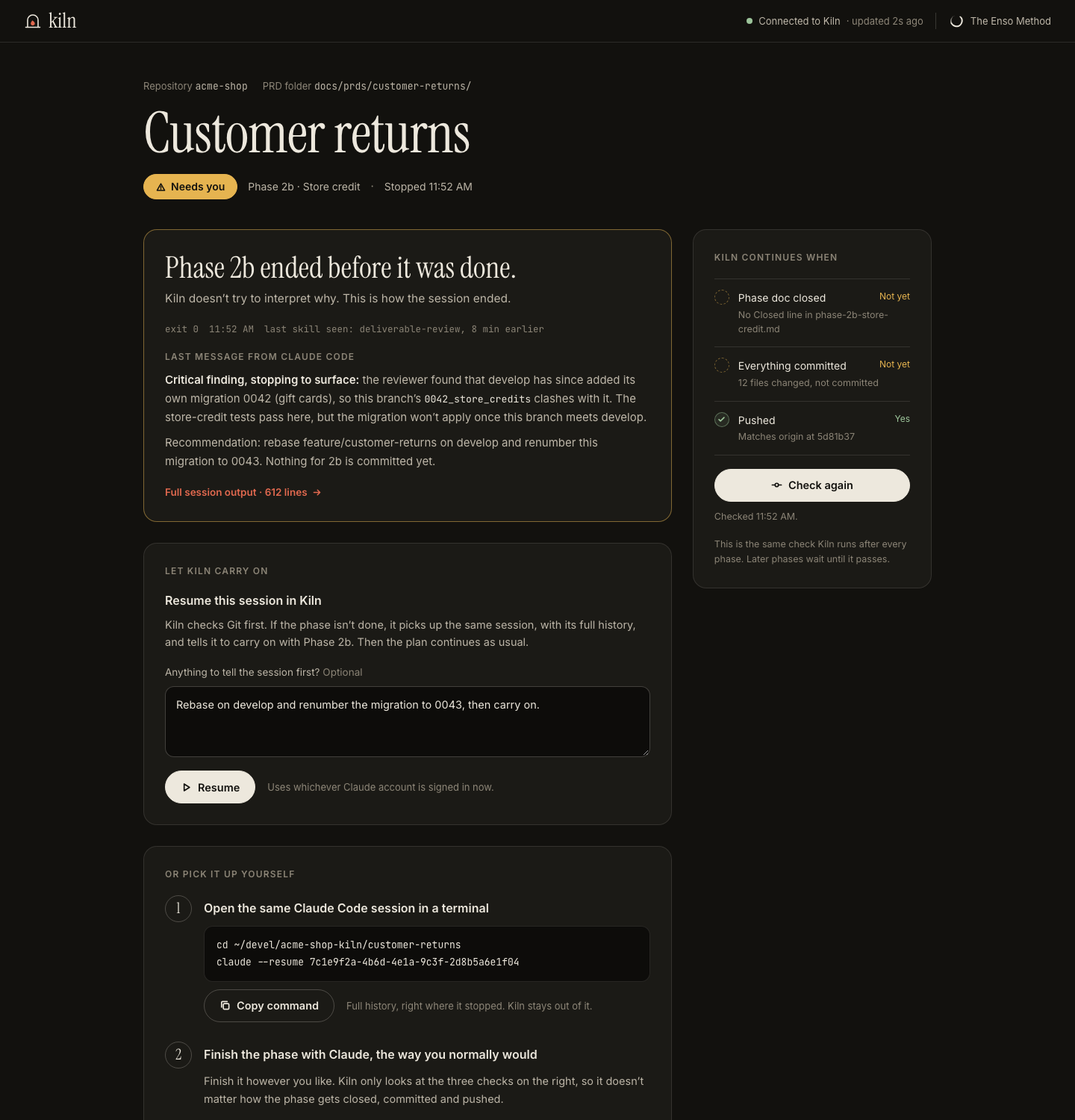
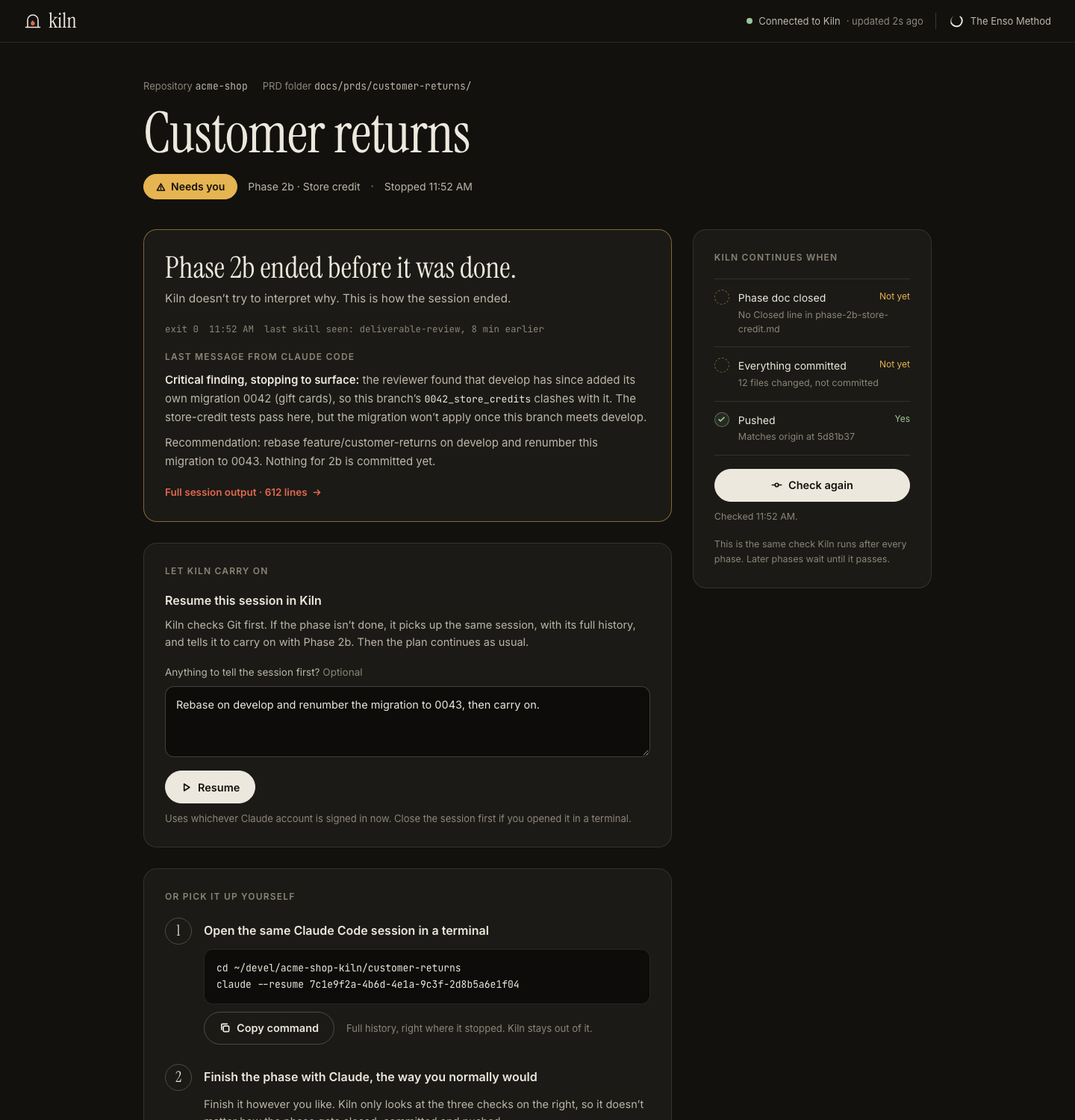
docs(kiln usage-limit recovery): PRD refinement complete — one review round
Review fixes: a usage-limit stop is judged from the latest run only;
Resume is left off where no run ever started; Replaces lines added for
v1's AC-LOOK-01, AC-WATCH-08 and assumption UI-005; a table for limits
with no label or no reset time; a Depends On section for the two
Claude Code behaviors not yet seen (the refusal event, resuming under
another account); close-the-terminal-session hint beside Resume.

Changed region(s): [[0.1562, 0.7667, 0.5938, 1.0], [0.3125, 0.7053, 0.3438, 0.736]]

diff --git a/docs/changes/kiln-usage-limit-recovery/mockups/kiln-screen-needs-you-usage-limit.html b/docs/changes/kiln-usage-limit-recovery/mockups/kiln-screen-needs-you-usage-limit.html
@@ -42,7 +42,7 @@ details[open]>summary .chev{transform:rotate(90deg)}
 </div>
 <a href="../../../design/mockups/kiln-screen-phase-detail-live.html" style="display: inline-flex; align-items: center; gap: 6px; font-size: 13.5px; font-weight: 600; color: #e2694f; text-decoration: none; align-self: flex-start">Full session output · 248 lines<svg width="13" height="13" viewBox="0 0 16 16" fill="none" stroke="currentColor" stroke-width="1.9" stroke-linecap="round" stroke-linejoin="round" aria-hidden="true" style="flex: 0 0 auto"><path d="M3 8h10M9 4l4 4-4 4"></path></svg></a></section><section style="background: #1b1a16; border: 1px solid rgba(237, 232, 221, 0.12); border-radius: 18px; padding: clamp(20px, 3vw, 28px); display: flex; flex-direction: column; gap: 18px; box-sizing: border-box; "><span style="font-size: 12px; font-weight: 600; letter-spacing: 0.1em; text-transform: uppercase; color: #8c8577">Two ways to carry on</span><ol style="list-style: none; margin: 0; padding: 0; display: flex; flex-direction: column; gap: 26px"><li style="display: grid; grid-template-columns: 36px minmax(0, 1fr); gap: 0 16px"><span style="width: 36px; height: 36px; border-radius: 999px; border: 1px solid rgba(237, 232, 221, 0.24); display: inline-flex; align-items: center; justify-content: center; font-family: 'Instrument Serif', 'Iowan Old Style', Georgia, serif; font-size: 20px; color: #ede8dd; box-sizing: border-box">1</span><div style="display: flex; flex-direction: column; gap: 12px; padding-top: 5px; min-width: 0"><span style="font-size: 16px; font-weight: 600; color: #ede8dd">Wait for the reset</span><p style="margin: 0; font-size: 14.5px; color: #bdb6a8; line-height: 1.6; text-wrap: pretty; ">The 5-hour window resets at 3:40 PM, in 1h 12m. Come back after that and press Resume.</p></div></li><li style="display: grid; grid-template-columns: 36px minmax(0, 1fr); gap: 0 16px"><span style="width: 36px; height: 36px; border-radius: 999px; border: 1px solid rgba(237, 232, 221, 0.24); display: inline-flex; align-items: center; justify-content: center; font-family: 'Instrument Serif', 'Iowan Old Style', Georgia, serif; font-size: 20px; color: #ede8dd; box-sizing: border-box">2</span><div style="display: flex; flex-direction: column; gap: 12px; padding-top: 5px; min-width: 0"><span style="font-size: 16px; font-weight: 600; color: #ede8dd">Or switch to another Claude account now</span><p style="margin: 0; font-size: 14.5px; color: #bdb6a8; line-height: 1.6; text-wrap: pretty; ">In another terminal, sign in with an account that has usage left, then press Resume. The session picks up on that account.</p><div style="display: flex; flex-direction: column; gap: 10px"><pre style="margin: 0; white-space: pre-wrap; font-family: 'JetBrains Mono', 'SF Mono', ui-monospace, Menlo, monospace; font-size: 13px; line-height: 1.7; color: #ede8dd; background: #0d0c0a; border: 1px solid rgba(237, 232, 221, 0.12); border-radius: 12px; padding: 14px 16px; overflow-wrap: anywhere">claude auth login
 <span style="color: #8c8577"># or, to fill in the other account’s email:</span>
-claude auth login --email you@other-account.dev</pre><div><button type="button" style="display: inline-flex; align-items: center; justify-content: center; gap: 8px; min-height: 44px; padding: 0 20px; border-radius: 999px; font-family: Inter, -apple-system, BlinkMacSystemFont, 'Segoe UI', sans-serif; font-size: 14.5px; font-weight: 600; text-decoration: none; cursor: pointer; box-sizing: border-box; white-space: nowrap; background: transparent; color: #ede8dd; border: 1px solid rgba(237, 232, 221, 0.24); "><svg width="15" height="15" viewBox="0 0 16 16" fill="none" stroke="currentColor" stroke-width="1.8" stroke-linecap="round" stroke-linejoin="round" aria-hidden="true" style="flex: 0 0 auto"><rect x="5.5" y="5.5" width="8" height="8" rx="1.5"></rect><path d="M3 10.5V3.8A1.3 1.3 0 0 1 4.3 2.5H11"></path></svg>Copy command</button></div></div></div></li></ol><div style="display: flex; flex-direction: column; gap: 4px; padding: 14px 16px; border: 1px solid rgba(237, 232, 221, 0.12); border-radius: 12px"><span style="font-size: 12px; font-weight: 600; letter-spacing: 0.1em; text-transform: uppercase; color: #8c8577">Signed in now</span><span style="display: flex; flex-wrap: wrap; justify-content: space-between; gap: 4px 12px; font-size: 14.5px; color: #ede8dd">alex@acme-shop.dev · Max plan<span style="color: #e6b450; font-weight: 600">5-hour window 100%</span></span><span style="font-size: 12.5px; color: #8c8577">Usage updated 1 min ago. Switch accounts and this changes within 5 minutes.</span></div><label style="display: flex; flex-direction: column; gap: 8px"><span style="font-size: 13.5px; color: #bdb6a8">Anything to tell the session first? <span style="color: #8c8577">Optional</span></span><textarea rows="3" placeholder="It gets this in your words, then the instruction to carry on with the phase." style="width: 100%; box-sizing: border-box; resize: vertical; font-family: Inter, -apple-system, BlinkMacSystemFont, 'Segoe UI', sans-serif; font-size: 14.5px; line-height: 1.6; color: #ede8dd; background: #0d0c0a; border: 1px solid rgba(237, 232, 221, 0.24); border-radius: 12px; padding: 12px 14px"></textarea></label><div style="display: flex; flex-wrap: wrap; align-items: center; gap: 10px 16px"><button type="button" style="display: inline-flex; align-items: center; justify-content: center; gap: 8px; min-height: 44px; padding: 0 20px; border-radius: 999px; font-family: Inter, -apple-system, BlinkMacSystemFont, 'Segoe UI', sans-serif; font-size: 14.5px; font-weight: 600; text-decoration: none; cursor: pointer; box-sizing: border-box; white-space: nowrap; background: #ede8dd; color: #12110e; border: 1px solid #ede8dd; "><svg width="15" height="15" viewBox="0 0 16 16" fill="none" stroke="currentColor" stroke-width="1.8" stroke-linecap="round" stroke-linejoin="round" aria-hidden="true" style="flex: 0 0 auto"><path d="M5 3.2v9.6L12.6 8z"></path></svg>Resume</button><span style="font-size: 13px; color: #e6b450">This account is still at its 5-hour limit until 3:40 PM.</span></div></section><section style="background: #1b1a16; border: 1px solid rgba(237, 232, 221, 0.12); border-radius: 18px; padding: clamp(20px, 3vw, 28px); display: flex; flex-direction: column; gap: 18px; box-sizing: border-box; "><span style="font-size: 12px; font-weight: 600; letter-spacing: 0.1em; text-transform: uppercase; color: #8c8577">Or pick it up yourself</span>
+claude auth login --email you@other-account.dev</pre><div><button type="button" style="display: inline-flex; align-items: center; justify-content: center; gap: 8px; min-height: 44px; padding: 0 20px; border-radius: 999px; font-family: Inter, -apple-system, BlinkMacSystemFont, 'Segoe UI', sans-serif; font-size: 14.5px; font-weight: 600; text-decoration: none; cursor: pointer; box-sizing: border-box; white-space: nowrap; background: transparent; color: #ede8dd; border: 1px solid rgba(237, 232, 221, 0.24); "><svg width="15" height="15" viewBox="0 0 16 16" fill="none" stroke="currentColor" stroke-width="1.8" stroke-linecap="round" stroke-linejoin="round" aria-hidden="true" style="flex: 0 0 auto"><rect x="5.5" y="5.5" width="8" height="8" rx="1.5"></rect><path d="M3 10.5V3.8A1.3 1.3 0 0 1 4.3 2.5H11"></path></svg>Copy command</button></div></div></div></li></ol><div style="display: flex; flex-direction: column; gap: 4px; padding: 14px 16px; border: 1px solid rgba(237, 232, 221, 0.12); border-radius: 12px"><span style="font-size: 12px; font-weight: 600; letter-spacing: 0.1em; text-transform: uppercase; color: #8c8577">Signed in now</span><span style="display: flex; flex-wrap: wrap; justify-content: space-between; gap: 4px 12px; font-size: 14.5px; color: #ede8dd">alex@acme-shop.dev · Max plan<span style="color: #e6b450; font-weight: 600">5-hour window 100%</span></span><span style="font-size: 12.5px; color: #8c8577">Usage updated 1 min ago. Switch accounts and this changes within 5 minutes. Close the session first if you opened it in a terminal.</span></div><label style="display: flex; flex-direction: column; gap: 8px"><span style="font-size: 13.5px; color: #bdb6a8">Anything to tell the session first? <span style="color: #8c8577">Optional</span></span><textarea rows="3" placeholder="It gets this in your words, then the instruction to carry on with the phase." style="width: 100%; box-sizing: border-box; resize: vertical; font-family: Inter, -apple-system, BlinkMacSystemFont, 'Segoe UI', sans-serif; font-size: 14.5px; line-height: 1.6; color: #ede8dd; background: #0d0c0a; border: 1px solid rgba(237, 232, 221, 0.24); border-radius: 12px; padding: 12px 14px"></textarea></label><div style="display: flex; flex-wrap: wrap; align-items: center; gap: 10px 16px"><button type="button" style="display: inline-flex; align-items: center; justify-content: center; gap: 8px; min-height: 44px; padding: 0 20px; border-radius: 999px; font-family: Inter, -apple-system, BlinkMacSystemFont, 'Segoe UI', sans-serif; font-size: 14.5px; font-weight: 600; text-decoration: none; cursor: pointer; box-sizing: border-box; white-space: nowrap; background: #ede8dd; color: #12110e; border: 1px solid #ede8dd; "><svg width="15" height="15" viewBox="0 0 16 16" fill="none" stroke="currentColor" stroke-width="1.8" stroke-linecap="round" stroke-linejoin="round" aria-hidden="true" style="flex: 0 0 auto"><path d="M5 3.2v9.6L12.6 8z"></path></svg>Resume</button><span style="font-size: 13px; color: #e6b450">This account’s 5-hour window is at 100% until 3:40 PM.</span></div></section><section style="background: #1b1a16; border: 1px solid rgba(237, 232, 221, 0.12); border-radius: 18px; padding: clamp(20px, 3vw, 28px); display: flex; flex-direction: column; gap: 18px; box-sizing: border-box; "><span style="font-size: 12px; font-weight: 600; letter-spacing: 0.1em; text-transform: uppercase; color: #8c8577">Or pick it up yourself</span>
 <ol style="list-style: none; margin: 0; padding: 0; display: flex; flex-direction: column; gap: 26px">
 <li style="display: grid; grid-template-columns: 36px minmax(0, 1fr); gap: 0 16px">
 <span style="width: 36px; height: 36px; border-radius: 999px; border: 1px solid rgba(237, 232, 221, 0.24); display: inline-flex; align-items: center; justify-content: center; font-family: 'Instrument Serif', 'Iowan Old Style', Georgia, serif; font-size: 20px; color: #ede8dd; box-sizing: border-box">1</span>

diff --git a/docs/changes/kiln-usage-limit-recovery/mockups/kiln-screen-needs-you-resume.html b/docs/changes/kiln-usage-limit-recovery/mockups/kiln-screen-needs-you-resume.html
@@ -41,7 +41,7 @@ details[open]>summary .chev{transform:rotate(90deg)}
 <p style="margin: 0">Recommendation: rebase feature/customer-returns on develop and renumber this migration to 0043. Nothing for 2b is committed yet.</p>
 </div>
 </div>
-<a href="../../../design/mockups/kiln-screen-phase-detail-live.html" style="display: inline-flex; align-items: center; gap: 6px; font-size: 13.5px; font-weight: 600; color: #e2694f; text-decoration: none; align-self: flex-start">Full session output · 612 lines<svg width="13" height="13" viewBox="0 0 16 16" fill="none" stroke="currentColor" stroke-width="1.9" stroke-linecap="round" stroke-linejoin="round" aria-hidden="true" style="flex: 0 0 auto"><path d="M3 8h10M9 4l4 4-4 4"></path></svg></a></section><section style="background: #1b1a16; border: 1px solid rgba(237, 232, 221, 0.12); border-radius: 18px; padding: clamp(20px, 3vw, 28px); display: flex; flex-direction: column; gap: 18px; box-sizing: border-box; "><span style="font-size: 12px; font-weight: 600; letter-spacing: 0.1em; text-transform: uppercase; color: #8c8577">Let Kiln carry on</span><div style="display: flex; flex-direction: column; gap: 8px"><span style="font-size: 16px; font-weight: 600; color: #ede8dd">Resume this session in Kiln</span><p style="margin: 0; font-size: 14.5px; color: #bdb6a8; line-height: 1.6; text-wrap: pretty; ">Kiln checks Git first. If the phase isn’t done, it picks up the same session, with its full history, and tells it to carry on with Phase 2b. Then the plan continues as usual.</p></div><label style="display: flex; flex-direction: column; gap: 8px"><span style="font-size: 13.5px; color: #bdb6a8">Anything to tell the session first? <span style="color: #8c8577">Optional</span></span><textarea rows="3" placeholder="It gets this in your words, then the instruction to carry on with the phase." style="width: 100%; box-sizing: border-box; resize: vertical; font-family: Inter, -apple-system, BlinkMacSystemFont, 'Segoe UI', sans-serif; font-size: 14.5px; line-height: 1.6; color: #ede8dd; background: #0d0c0a; border: 1px solid rgba(237, 232, 221, 0.24); border-radius: 12px; padding: 12px 14px">Rebase on develop and renumber the migration to 0043, then carry on.</textarea></label><div style="display: flex; flex-wrap: wrap; align-items: center; gap: 10px 16px"><button type="button" style="display: inline-flex; align-items: center; justify-content: center; gap: 8px; min-height: 44px; padding: 0 20px; border-radius: 999px; font-family: Inter, -apple-system, BlinkMacSystemFont, 'Segoe UI', sans-serif; font-size: 14.5px; font-weight: 600; text-decoration: none; cursor: pointer; box-sizing: border-box; white-space: nowrap; background: #ede8dd; color: #12110e; border: 1px solid #ede8dd; "><svg width="15" height="15" viewBox="0 0 16 16" fill="none" stroke="currentColor" stroke-width="1.8" stroke-linecap="round" stroke-linejoin="round" aria-hidden="true" style="flex: 0 0 auto"><path d="M5 3.2v9.6L12.6 8z"></path></svg>Resume</button><span style="font-size: 13px; color: #8c8577">Uses whichever Claude account is signed in now.</span></div></section><section style="background: #1b1a16; border: 1px solid rgba(237, 232, 221, 0.12); border-radius: 18px; padding: clamp(20px, 3vw, 28px); display: flex; flex-direction: column; gap: 18px; box-sizing: border-box; "><span style="font-size: 12px; font-weight: 600; letter-spacing: 0.1em; text-transform: uppercase; color: #8c8577">Or pick it up yourself</span>
+<a href="../../../design/mockups/kiln-screen-phase-detail-live.html" style="display: inline-flex; align-items: center; gap: 6px; font-size: 13.5px; font-weight: 600; color: #e2694f; text-decoration: none; align-self: flex-start">Full session output · 612 lines<svg width="13" height="13" viewBox="0 0 16 16" fill="none" stroke="currentColor" stroke-width="1.9" stroke-linecap="round" stroke-linejoin="round" aria-hidden="true" style="flex: 0 0 auto"><path d="M3 8h10M9 4l4 4-4 4"></path></svg></a></section><section style="background: #1b1a16; border: 1px solid rgba(237, 232, 221, 0.12); border-radius: 18px; padding: clamp(20px, 3vw, 28px); display: flex; flex-direction: column; gap: 18px; box-sizing: border-box; "><span style="font-size: 12px; font-weight: 600; letter-spacing: 0.1em; text-transform: uppercase; color: #8c8577">Let Kiln carry on</span><div style="display: flex; flex-direction: column; gap: 8px"><span style="font-size: 16px; font-weight: 600; color: #ede8dd">Resume this session in Kiln</span><p style="margin: 0; font-size: 14.5px; color: #bdb6a8; line-height: 1.6; text-wrap: pretty; ">Kiln checks Git first. If the phase isn’t done, it picks up the same session, with its full history, and tells it to carry on with Phase 2b. Then the plan continues as usual.</p></div><label style="display: flex; flex-direction: column; gap: 8px"><span style="font-size: 13.5px; color: #bdb6a8">Anything to tell the session first? <span style="color: #8c8577">Optional</span></span><textarea rows="3" placeholder="It gets this in your words, then the instruction to carry on with the phase." style="width: 100%; box-sizing: border-box; resize: vertical; font-family: Inter, -apple-system, BlinkMacSystemFont, 'Segoe UI', sans-serif; font-size: 14.5px; line-height: 1.6; color: #ede8dd; background: #0d0c0a; border: 1px solid rgba(237, 232, 221, 0.24); border-radius: 12px; padding: 12px 14px">Rebase on develop and renumber the migration to 0043, then carry on.</textarea></label><div style="display: flex; flex-wrap: wrap; align-items: center; gap: 10px 16px"><button type="button" style="display: inline-flex; align-items: center; justify-content: center; gap: 8px; min-height: 44px; padding: 0 20px; border-radius: 999px; font-family: Inter, -apple-system, BlinkMacSystemFont, 'Segoe UI', sans-serif; font-size: 14.5px; font-weight: 600; text-decoration: none; cursor: pointer; box-sizing: border-box; white-space: nowrap; background: #ede8dd; color: #12110e; border: 1px solid #ede8dd; "><svg width="15" height="15" viewBox="0 0 16 16" fill="none" stroke="currentColor" stroke-width="1.8" stroke-linecap="round" stroke-linejoin="round" aria-hidden="true" style="flex: 0 0 auto"><path d="M5 3.2v9.6L12.6 8z"></path></svg>Resume</button><span style="font-size: 13px; color: #8c8577">Uses whichever Claude account is signed in now. Close the session first if you opened it in a terminal.</span></div></section><section style="background: #1b1a16; border: 1px solid rgba(237, 232, 221, 0.12); border-radius: 18px; padding: clamp(20px, 3vw, 28px); display: flex; flex-direction: column; gap: 18px; box-sizing: border-box; "><span style="font-size: 12px; font-weight: 600; letter-spacing: 0.1em; text-transform: uppercase; color: #8c8577">Or pick it up yourself</span>
 <ol style="list-style: none; margin: 0; padding: 0; display: flex; flex-direction: column; gap: 26px">
 <li style="display: grid; grid-template-columns: 36px minmax(0, 1fr); gap: 0 16px">
 <span style="width: 36px; height: 36px; border-radius: 999px; border: 1px solid rgba(237, 232, 221, 0.24); display: inline-flex; align-items: center; justify-content: center; font-family: 'Instrument Serif', 'Iowan Old Style', Georgia, serif; font-size: 20px; color: #ede8dd; box-sizing: border-box">1</span>

diff --git a/docs/changes/kiln-usage-limit-recovery/kiln-usage-limit-recovery-prd.md b/docs/changes/kiln-usage-limit-recovery/kiln-usage-limit-recovery-prd.md
@@ -19,7 +19,8 @@ Kiln already notices an account switch made while it runs: it reads the signed-i
 ### Terms used in this PRD
 
 - **Needs you**, the **done check**, the **pull-request session**, **interrupted** and **ended on its own** mean what they mean in [Kiln v1](../../prds/kiln-v1/kiln-v1-prd.md#terms-used-in-this-prd).
-- A **usage-limit stop** is a Needs you whose session ended after Claude Code reported, in its structured session output, that a usage limit refused the session's request. Claude Code's report names the limit (the 5-hour window, the weekly limit, or a per-model weekly limit) and when it resets. A session whose own words mention a limit, without that report, is an ordinary stop.
+- A **run** is one start of a session's Claude Code process: the first one, or one resume of it. A session resumed twice has had three runs.
+- A **usage-limit stop** is a Needs you whose latest run ended after Claude Code reported, in its structured session output, that a usage limit refused that run's request. A refusal on an earlier run of the same session doesn't count, and neither do the session's own words mentioning a limit: either way it is an ordinary stop.
 
 ## Acceptance Criteria
 
@@ -27,21 +28,30 @@ Kiln already notices an account switch made while it runs: it reads the signed-i
 
 When a session stops before its phase is done, the person can tell Kiln to pick that same session back up instead of finishing the phase by hand. Kiln then carries on through the plan without further help.
 
-- [ ] **AC-RESUME-01 — Needs you offers Resume.** The Needs you screen offers Resume whenever the stopped session ended on its own: a phase that failed the done check, or a pull-request session with no pull request open. It is not offered at a broken-plan stop, or when an interrupted session already couldn't be resumed (Kiln v1, AC-KEEP-05). Resume is offered the same way after a restart of `kiln run` (UI-001).
-  - Replaces in part: AC-VIEW-02 in `docs/prds/kiln-v1/kiln-v1-prd.md` (Resume joins the browser view's controls)
-- [ ] **AC-RESUME-02 — Resume checks first, then picks up the same session.** Pressing Resume runs the done check (or, for the pull-request session, its pull-request check) first. If it passes, the phase is Done, finished by the person, exactly as Check again would mark it. Otherwise Kiln resumes that same session, with its full history, using whichever Claude account is signed in at that moment, and tells it the session stopped before the phase was done and to carry on with the phase. The phase shows as Implementing again, and from there Kiln continues as it does after any session: the done check, then the next phase, a pause if one is waiting, or Needs you again.
+- [ ] **AC-RESUME-01 — Needs you offers Resume.** The Needs you screen offers Resume whenever the stopped session ended on its own: a phase that failed the done check, or a pull-request session with no pull request open (UI-001). It is not offered where there is no session to pick up: a broken-plan stop, a session whose first run never started (Claude Code couldn't be launched), or an interrupted session that already couldn't be resumed (Kiln v1, AC-KEEP-05). Resume is offered the same way after a restart of `kiln run`.
+  - Replaces in part: AC-VIEW-02 in `docs/prds/kiln-v1/kiln-v1-prd.md` (Resume joins the browser view's controls) and AC-LOOK-01 in the same PRD (Needs you matches this change's mockups where they differ from v1's)
+- [ ] **AC-RESUME-02 — Resume checks first, then picks up the same session.** Pressing Resume runs the done check (or, for the pull-request session, its pull-request check) first. If it passes, Kiln continues exactly as after a passing Check again (Kiln v1, AC-STOP-07). Otherwise Kiln resumes that same session, with its full history, using whichever Claude account is signed in at that moment, and tells it the session stopped before the phase was done and to carry on with the phase. The phase shows as Implementing again, and from there Kiln continues as it does after any session. Beside Resume, the screen tells the person to close the session first if they opened it in a terminal. While Resume's or Check again's check is under way, neither can be pressed again.
   - Replaces in part: AC-KEEP-04 in `docs/prds/kiln-v1/kiln-v1-prd.md` (Kiln still never resumes a session that ended on its own by itself; the person can now ask it to) and AC-STOP-08 in the same PRD (Resume is a third way, after Check again and `kiln run`, for a session to start after a stop)
-- [ ] **AC-RESUME-03 — The person can tell the session something first.** Beside Resume is an optional note. When the person writes one, it is sent to the session, in the person's own words, together with the instruction to carry on (UI-002). When it is empty, the session gets the instruction alone.
+- [ ] **AC-RESUME-03 — The person can tell the session something first.** Beside Resume is an optional note. When the person writes one, the session gets it in the person's own words, ahead of the instruction to carry on (UI-002). When it is empty, the session gets the instruction alone. When Resume's check passes and no session is resumed, the note is discarded.
 - [ ] **AC-RESUME-04 — A session that can't be picked up comes back to the person.** When Resume can't pick the session up (its transcript is gone, for example), the phase returns to Needs you as an interrupted session that can't be resumed does (Kiln v1, AC-KEEP-05): its last lines of output, the fresh-session prompt, and no Resume.
 
 ### Say Plainly When a Usage Limit Stopped the Session
 
 A usage limit is the one stop with a known way forward, and Claude Code reports it in a form Kiln can read without guessing. Needs you shows that report instead of leaving the person to work it out from the session's last words.
 
-- [ ] **AC-LIMIT-01 — A usage-limit stop says which limit and when it resets.** At a usage-limit stop, Needs you says the phase stopped at a usage limit, names the limit with the label the account panel uses ("5-hour window", "Weekly", "Weekly · Fable"), and gives its reset as a clock time and a countdown, for example "Resets at 3:40 PM, in 1h 12m". A reset on a later day carries its day ("Resets Wed 8:00 AM, in 2d 4h"). Once the reset time has passed, it says the limit reset at that time. Everything Kiln v1 shows at Needs you is still shown, the session's last message included (AC-STOP-02, AC-STOP-03).
-  - Replaces in part: AC-STOP-04 in `docs/prds/kiln-v1/kiln-v1-prd.md` (a usage-limit stop states its cause, from Claude Code's report rather than from Kiln's reading of the session; every other stop is unchanged)
-- [ ] **AC-LIMIT-02 — The person sees the two ways forward.** A usage-limit stop gives two choices before Resume: wait for the reset, then press Resume; or switch to another Claude account now, then press Resume. The switch choice shows the command to run in another terminal, `claude auth login`, with `claude auth login --email <address>` as the form that fills in another account's email, as copyable text.
-- [ ] **AC-LIMIT-03 — The person sees which account Resume will use.** A usage-limit stop shows the account signed in now (email and plan) and its percent used of the limit that stopped the session, and updates both when the account changes, within Kiln v1's 5-minute refresh (AC-WATCH-09). When that limit still reads 100% on the signed-in account and its reset time hasn't passed, an amber line beside Resume says so: "This account is still at its 5-hour limit until 3:40 PM." Resume is never held by it.
+- [ ] **AC-LIMIT-01 — A usage-limit stop says which limit and when it resets.** At a usage-limit stop, Needs you says the phase stopped at a usage limit and shows the rows below. Everything Kiln v1 shows at Needs you is still shown, the session's last message included (AC-STOP-02, AC-STOP-03).
+
+  | What Claude Code's report gives | What Needs you says |
+  |---|---|
+  | A limit the account panel has a label for, and its reset time | The limit by that label ("5-hour window", "Weekly", "Weekly · Fable"), and "Resets at 3:40 PM, in 1h 12m", with the day for a later day ("Resets Wed 8:00 AM, in 2d 4h"). The countdown keeps counting while the screen is open. |
+  | A limit with no label Kiln knows | "A usage limit", with its reset as above |
+  | No reset time | The limit as above, with no reset line |
+  | A reset time that has passed | "Reset at 3:40 PM", with no countdown |
+
+  - Replaces in part: AC-STOP-04 in `docs/prds/kiln-v1/kiln-v1-prd.md` (a usage-limit stop states its cause, from Claude Code's report rather than from Kiln's reading of the session; every other stop is unchanged) and assumption UI-005 in `docs/prds/kiln-v1/assumptions.md` (its "a limit stop is a Needs you like any other"; Kiln still never waits for a reset)
+- [ ] **AC-LIMIT-02 — The person sees the two ways forward.** A usage-limit stop gives two choices before Resume: wait for the reset, then press Resume; or switch to another Claude account now, then press Resume. The switch choice shows the command to run in another terminal, `claude auth login`, with `claude auth login --email <address>` as the form that fills in another account's email, as copyable text. Once the reset time has passed, the wait choice says the limit has reset and to press Resume.
+- [ ] **AC-LIMIT-03 — The person sees which account Resume will use.** A usage-limit stop shows the account signed in now (email and plan) and its percent used of the limit that stopped the session, and updates both when the account changes, within Kiln v1's 5-minute refresh (AC-WATCH-09). When that limit reads 100% on the signed-in account and the signed-in account's reset time for it hasn't passed, an amber line beside Resume says so, naming the limit by its label: "This account's 5-hour window is at 100% until 3:40 PM." Resume is never held by it.
+  - Replaces in part: AC-WATCH-08 in `docs/prds/kiln-v1/kiln-v1-prd.md` (the account and the stopping limit also show at a usage-limit stop, amber at 100%)
 
 ## Out of Scope
 
@@ -49,3 +59,10 @@ A usage limit is the one stop with a known way forward, and Claude Code reports 
 - **Pausing before a limit is reached.** Kiln v1's near-limit note and Pause after this phase stay as they are.
 - **The terminal's Needs you lines.** They stay as in Kiln v1; the cause and the reset time are shown in the browser view.
 - **Switching accounts from Kiln.** Signing in stays a `claude auth login` the person runs in a terminal.
+
+## Depends On
+
+Two Claude Code behaviors the criteria rely on haven't been seen yet; the technical design proves both before anything is built on them. If either doesn't hold, it comes back as a product decision rather than a quiet change to the criteria.
+
+- **The refusal report.** Claude Code's stream-json output carries a `rate_limit_event` whose status says whether a request was allowed or refused, which limit it concerns and when that limit resets. Every saved event so far reports a request allowed, on the 5-hour window; none is a refusal, and none names a per-model weekly limit such as Fable.
+- **Resuming on another account.** `claude -p --resume` of a session started under one Claude account, run after `claude auth login` to another, picks the session up with its history on the new account.

diff --git a/docs/changes/kiln-usage-limit-recovery/assumptions.md b/docs/changes/kiln-usage-limit-recovery/assumptions.md
@@ -24,9 +24,9 @@
 
 ## Screen Assumptions
 
-### UI-001. Offer Resume on every stop where the session ended on its own, not only on usage-limit stops?
+### UI-001. Offer Resume on every stop where the session ended on its own, not only on usage-limit stops? — ⏳ PENDING (Added 2026-10-20 — new question; 85% confidence)
 
-**Assumption**: **Resume appears on every Needs you whose session ended on its own**: a failed done check after any phase session, and a pull-request session with no pull request open. It is left off only where there is no session to pick up: a broken-plan stop, and an interrupted session that already couldn't be resumed.
+**Assumption**: **Resume appears on every Needs you whose session ended on its own**: a failed done check after any phase session, and a pull-request session with no pull request open. It is left off only where there is no session to pick up: a broken-plan stop, a session whose first run never started, and an interrupted session that already couldn't be resumed.
 
 **Evidence**: The request was "a resume button on the Needs you screen", made while discussing usage limits. Resuming costs the same whatever the cause, and Kiln v1 forbids Kiln from deciding a stop's cause from the session's words (AC-STOP-04), so limiting Resume to limit stops would hide it whenever Claude Code's report is missing. The risk is a session that stopped to raise a critical finding: Resume tells it to carry on, which could push past the finding. The optional note (UI-002) is what lets the person answer it instead.
 
@@ -39,7 +39,7 @@
 
 ---
 
-### UI-002. Let the person add a note to the session when pressing Resume?
+### UI-002. Let the person add a note to the session when pressing Resume? — ⏳ PENDING (Added 2026-10-20 — new question; 70% confidence)
 
 **Assumption**: **An optional text box sits beside Resume.** What the person types is sent to the session in their own words, ahead of Kiln's instruction to carry on with the phase. Left empty, the session gets the instruction alone.
 
